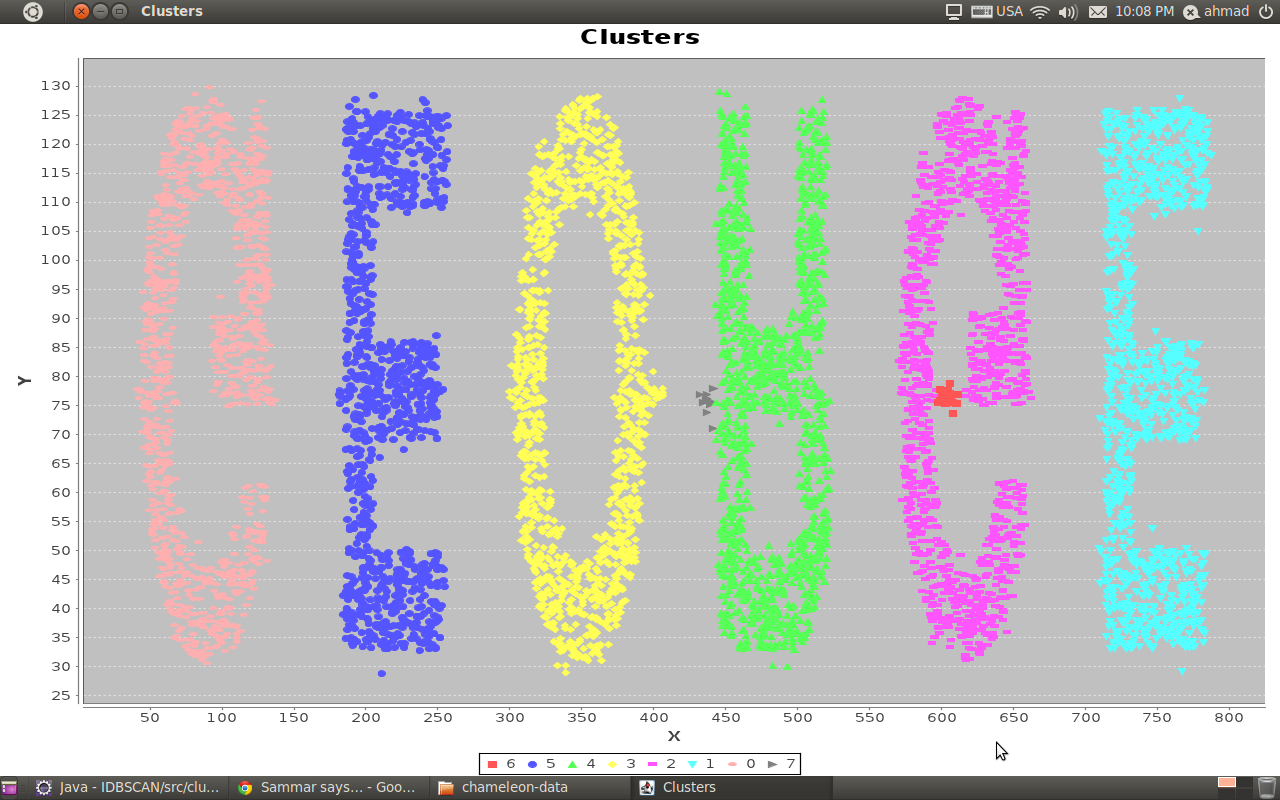
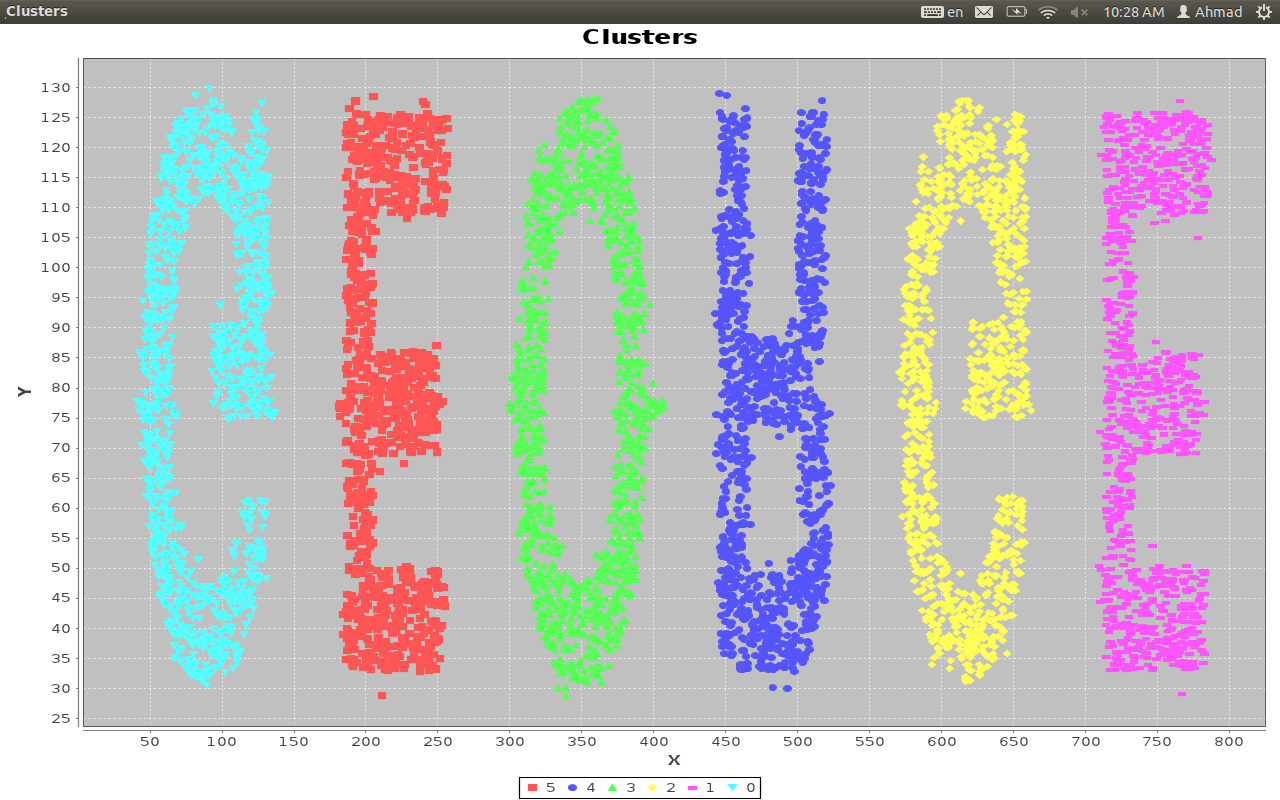
changes some experiments

diff --git a/src/plot/DatasetPlotter.java b/src/plot/DatasetPlotter.java
@@ -34,13 +34,15 @@ public class DatasetPlotter extends ApplicationFrame{
 		Enumeration keys = clustersHash.keys();
 		while (keys.hasMoreElements()) {
 			String clusterID = (String) keys.nextElement();
-			XYSeries series = new XYSeries(clusterID);
 			ArrayList<DatasetPoint> pointsList = clustersHash.get(clusterID);
-			for (int i = 0; i < pointsList.size(); i++) {
-				DatasetPoint p = pointsList.get(i);
-				series.add(p.getX(), p.getY());
-			}// end looping for points
-			datasetCollection.addSeries(series);
+			if(pointsList.size() > 30){
+				XYSeries series = new XYSeries(clusterID);
+				for (int i = 0; i < pointsList.size(); i++) {
+					DatasetPoint p = pointsList.get(i);
+					series.add(p.getX(), p.getY());
+				}// end looping for points
+				datasetCollection.addSeries(series);
+			}
 		}// end looping for clusters
 		JFreeChart chart = ChartFactory.createScatterPlot("Clusters", "X", "Y", datasetCollection, PlotOrientation.VERTICAL, true, true, false);
 		ChartPanel chartPanel = new ChartPanel(chart);

diff --git a/src/clustering/algorithms/DBSCAN.java b/src/clustering/algorithms/DBSCAN.java
@@ -125,10 +125,10 @@ public class DBSCAN {
 	}
 	
 	public static void main(String[] args) throws IOException {
-		double eps = 10;
-		int minPts= 15;
+		double eps = 5;
+		int minPts= 12;
 		ChameleonData datasetLoader = new ChameleonData();
-		ArrayList<DatasetPoint> dataset = datasetLoader.loadArrayList("/media/disk/master/Courses/Machine_Learning/datasets/chameleon-data/t7.10k.dat");
+		ArrayList<DatasetPoint> dataset = datasetLoader.loadArrayList("/media/disk/master/Courses/Machine_Learning/datasets/chameleon-data/t5.8k.dat");
 		DBSCAN dbscan = new DBSCAN(dataset);
 		dbscan.run(eps, minPts);
 		System.gc();

diff --git a/src/plot/PlotEhancedDBSCAN.java b/src/plot/PlotEhancedDBSCAN.java
@@ -27,6 +27,15 @@ public class PlotEhancedDBSCAN extends ApplicationFrame{
 			Cluster c = clusters.get(i);
 			if(!c.getIsActive()) continue;
 			ArrayList<DenseRegion> regions = c.getRegions();
+			
+			int totalNumberOfPoints = 0;
+			for (int j = 0; j < regions.size(); j++) {
+				totalNumberOfPoints+= regions.get(j).getPoints().size();
+			}
+			
+			if(totalNumberOfPoints < 50) continue;
+			
+			
 			XYSeries series = new XYSeries(i);
 
 			for (int j = 0; j < regions.size(); j++) {
